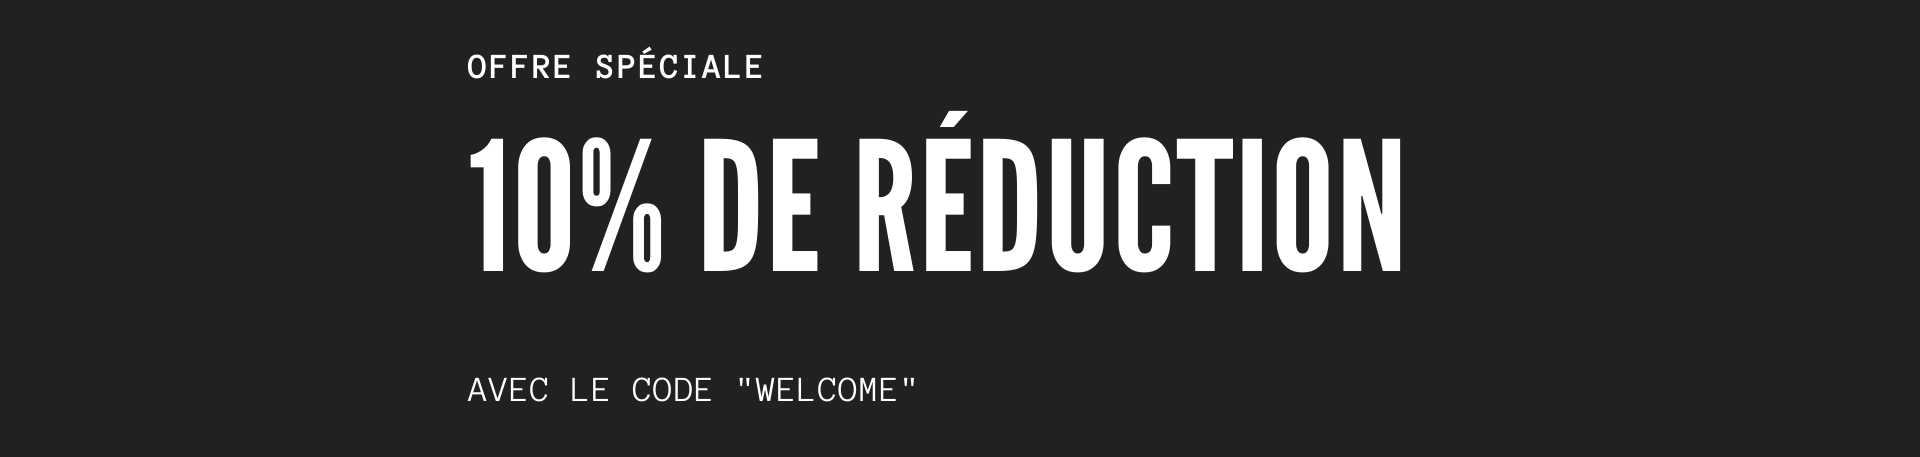
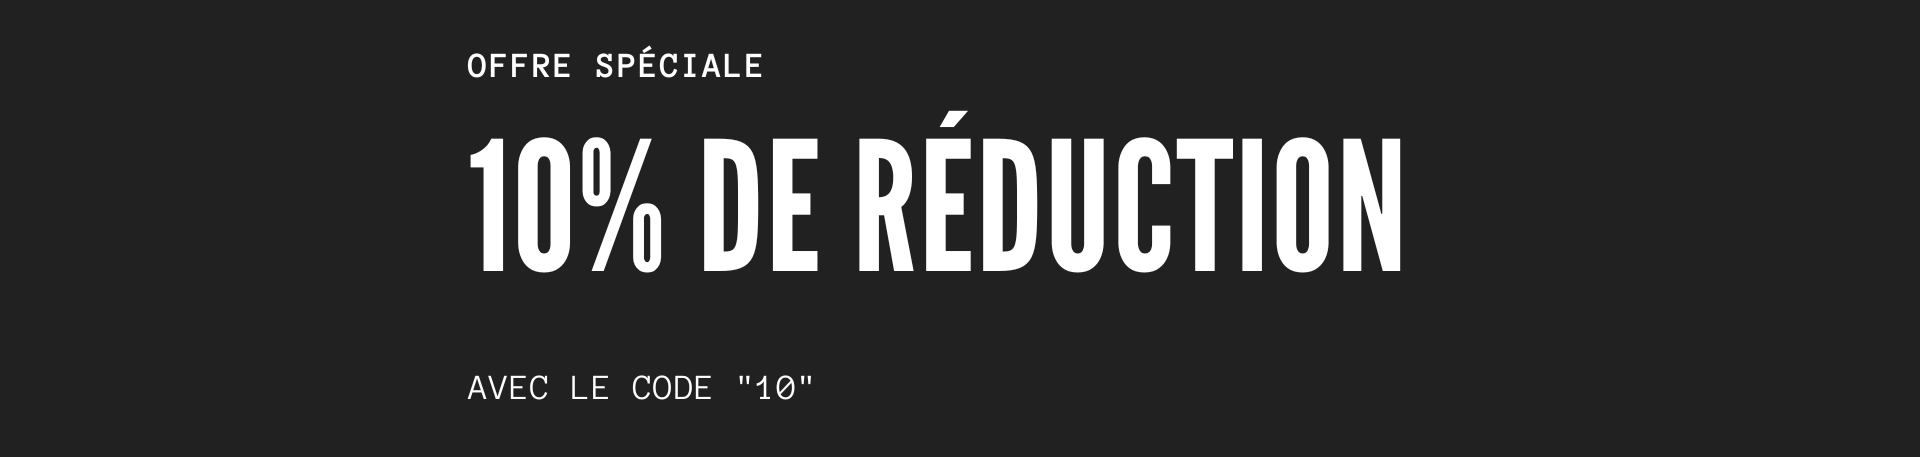
bannière modifiée

Changed region(s): [[0.25, 0.7965, 0.4688, 0.8884], [0.25, 0.0919, 0.375, 0.1838]]

diff --git a/style/promotion.css b/style/promotion.css
@@ -1,0 +1,9 @@
+#promo-body {
+    padding: 1%;
+    margin-top: 230px;
+    margin-left: 80px;
+    margin-right: 80px;
+    box-shadow: 0 0 20px 0 rgba(0, 0, 0, 0.2), 0 5px 5px 0 rgba(0, 0, 0, 0.24);
+}
+
+/*-----------------------------------*/

diff --git a/style/user.css b/style/user.css
@@ -9,6 +9,7 @@
 }
 
 .user_add_marketplace,
+.promotion,
 .logout,
 .user_acc_commande,
 .modify_pwd{

diff --git a/fonctions/applyDiscount.php b/fonctions/applyDiscount.php
@@ -1,18 +1,25 @@
-<?php 
-    if(isset($_GET['discount'])){
-        $promo = $_GET['discount'];
-        $total_panier = $_GET['total'];
+<?php
+session_start();
+ob_start();
+// connexion à la base de données
+require_once "../composants/db.php";
+include "../composants/main.php";
+?>
+<?php
+if (isset($_GET['discount'])) {
+    $promo = $_GET['discount'];
+    $total_panier = $_GET['total'];
 
-        $discount_message = "Promotion appliquée -10% !";
-    
-        if ($promo == "WELCOME"){
-            $total_panier = $total_panier - $total_panier / 100 * 10;
+    $rq_check_promo = "SELECT * FROM promotion WHERE promotion = $promo";
+    if ($result_promo = mysqli_query($db, $rq_check_promo)) {
+        if ($row_check_promo = mysqli_fetch_array($result_promo)) {
+            $discount_message = "Promotion appliquée " . $promo . " % !";
+            $total_panier = $total_panier - $total_panier / 100 * $promo;
             $msg_total_panier = $total_panier . ' €';
 
             $total_cost = $total_panier + 20;
             $total_cost_message = $total_cost . ' €';
-        }
-        else{
+        } else {
             $discount_message = "";
             $msg_total_panier = $total_panier . ' €';
 
@@ -20,5 +27,13 @@
             $total_cost_message = $total_cost . ' €';
         }
         echo "$discount_message|$msg_total_panier|$total_cost_message";
+    } else {
+        $discount_message = "";
+        $msg_total_panier = $total_panier . ' €';
+
+        $total_cost = $total_panier + 20;
+        $total_cost_message = $total_cost . ' €';
+
+        echo "$discount_message|$msg_total_panier|$total_cost_message";
     }
-?>
+}

diff --git a/pages/verif_payment.php b/pages/verif_payment.php
@@ -78,15 +78,13 @@
             }
 
             //-------------- DATE DE LA COMMANDE --------------
-            date_default_timezone_set('Europe/Paris');
-            $date_time = date('d-m-y h:i:s');
-            $date_order = explode(' ', $date_time);
+            $date_time = date("Y-m-d");
 
             // ------------ EXPEDITEUR ------------------
             $expediteur = "FoneMarket";
 
             $add_commande =
-                "insert into commande values($order_id, '$order_nb', $user, '$date_order[0]', '$expediteur')";
+                "insert into commande values($order_id, '$order_nb', $user, '$date_time', '$expediteur')";
 
             mysqli_query($db, $add_commande);
             //-------------------------------------------------------------------  
@@ -97,7 +95,7 @@
             
             // var_dump($total);
 
-            $add_historique = "insert into historique values(NULL, '$order_nb', '$date_order[0]', $user, $total[0])";
+            $add_historique = "insert into historique values(NULL, '$order_nb', '$date_time ', $user, $total[0])";
 
             // echo $add_historique;
 

diff --git a/pages/promotion.php b/pages/promotion.php
@@ -1,0 +1,31 @@
+<head>
+    <?php
+    $title = "Mes commandes";
+    ob_start();
+    session_start();
+    include "../composants/header.php";
+    include "../composants/main.php";
+    // connexion à la base de données
+    require_once "../composants/db.php";
+    ?>
+</head>
+
+
+<!-- importer le fichier de style -->
+<link rel="stylesheet" href="../style/promotion.css" media="screen" type="text/css" />
+</head>
+
+<body>
+
+    <div id="promo-body">
+        <form id="login" action="../fonctions/add_promo.php" method="POST">
+            <h2>Promotion</h2>
+            <label>Entrer une nouvelle promotion :</label><br>
+            <input name="promo" id="input" class="id_input" placeholder="Ex : 50">
+            <input type="submit" id='submit' value='Ajouter le nouveau code promo'>
+        </form> 
+    </div>
+
+    <?php
+    include "../composants/footer.php"
+    ?>

diff --git a/fonctions/add_promo.php b/fonctions/add_promo.php
@@ -1,0 +1,21 @@
+<head>
+    <?php
+    session_start();
+    ob_start();
+    include "../composants/main.php";
+    // connexion à la base de données
+    require_once "../composants/db.php";
+    ?>
+</head>
+
+<?php
+if (!isset($_SESSION['iduser'])) {
+    header("Location: ../pages/login.php");
+} else {
+    //CHECK IF USER IS ALREADY IN TABLE
+    $promo = $_POST["promo"];
+    $rq_add_promo = "INSERT INTO promotion VALUES(null,$promo)";
+    $add_promo = mysqli_query($db, $rq_add_promo);
+    header("Location: ../pages/promotion.php?success=1");
+}
+?>

diff --git a/pages/home.php b/pages/home.php
@@ -30,7 +30,7 @@
         <a href="marketplace.php"><img src="../media/samsungLessWaste.jpg" class="d-block w-100" alt="less waste, buy refurbished" /></a>
       </div>
       <div class="carousel-item">
-        <img src="../media/welcome_discount.png" class="d-block w-100" alt="code -10% : WELCOME" />
+        <img src="../media/welcome_discount.png" class="d-block w-100" alt="code -10% : 10" />
       </div>
     </div>
     <button class="carousel-control-prev" type="button" data-mdb-target="#carouselExampleIndicators" data-mdb-slide="prev">

diff --git a/pages/user.php b/pages/user.php
@@ -69,6 +69,8 @@
 
                     <button onclick="window.location.href='../pages/nouveau_mdp.php';" class="modify_pwd">Modifier mon mot de passe</button>
 
+                    <button onclick="window.location.href='../pages/promotion.php';" class="promotion">Ajouter une réduction</button>
+
                     <button onclick="window.location.href='../fonctions/deconnexion.php';" class="logout">Déconnexion</button>
 
                 </div>

diff --git a/pages/sell.php b/pages/sell.php
@@ -1,4 +1,4 @@
-head>
+<head>
 <?php
     $title = "Vendre son smartphone";
     session_start();
